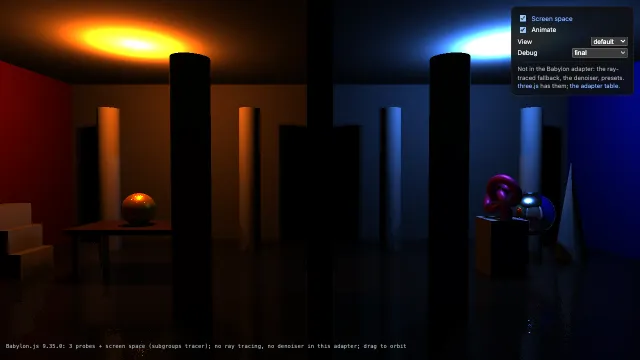
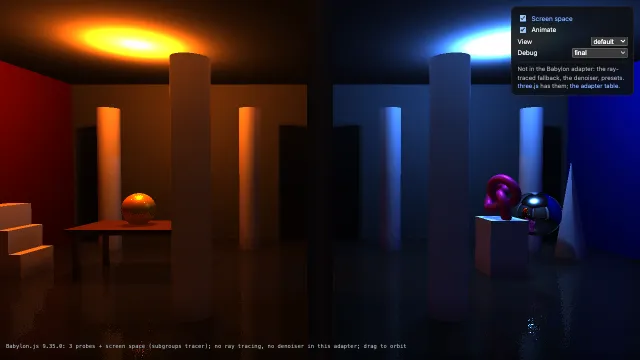
W99: HANDOFF row, log and backlog; engines/babylon thumbnail with bounce light
Checks: --only babylon 9/9 (first run: page not ready on load, passed on rerun), catalog gallery +
engines/babylon + babylon PASS (engines/babylon luminance 33.0, compare switch 0.80 / back 0.016),
thumbnail refreshed. Backlog: the remaining ~50/255 whole-image gap is Babylon's direct light /
shadows / tone mapping (three without env light 49.6 vs Babylon without bounce 24.2 luminance); rest
0.013-0.014/255 is the pre-existing SSR variation at a fixed frameIndex on a brighter scene.

diff --git a/docs/HANDOFF.md b/docs/HANDOFF.md
@@ -114,7 +114,7 @@ The working state of the project: who is on what, which interfaces the workstrea
 | W96 | Examples E4: `engines/three`, `engines/r3f`, `engines/babylon` (rebuild), `engines/core`, `engines/pixi` brief, all on `rooms` | code | `examples/engines/`, their catalog entries, `--only engines` | 5418 | done (2026-11-27): four pages on the two rooms + `--only engines` (side by side, stated bounds); Babylon adapter: probe `originOffset` / `projectionOffset`, `settings.frameIndex` honoured | Not done: engines/pixi on the two rooms (needs the beta; backlog). Babylon's materials take no bounce light from the probes (backlog) |
 | W97 | Bug: ray-traced hits on moving `noProbe` meshes (rt/animated's knot and ball) shade light grey (~0.85) instead of their material colour under `Reflections.create`; the ssr lab page sometimes shows them coloured | bug | `packages/three/src/trace`, `packages/core/src/trace` as needed; a regression check | 5419 | running (2026-11-27) | - |
 | W98 | Examples follow-up: perf/presets and perf/upscaler on `Reflections.create` (`timestamps`, `gbufferOptions`); a visible motion compare for motion/animated | code | `examples/features/{perf,motion}/`, their catalog entries; `packages/three/src/sssr/presets.ts` (`applyReflectionsPreset` takes a `Reflections`) | 5420 | done (2026-11-27), not merged | - |
-| W99 | Babylon adapter: probe irradiance (bounce light) for Babylon's PBR materials, as three's materials take it through `scene.environmentNode`; engines/babylon was 60.5/255 darker than engines/three | code + measure | `packages/babylon/src`, `examples/engines/babylon/`, the `engines` check bounds | 5421 | running (2026-11-27) | - |
+| W99 | Babylon adapter: probe irradiance (bounce light) for Babylon's PBR materials, as three's materials take it through `scene.environmentNode`; engines/babylon was 60.5/255 darker than engines/three | code + measure | `packages/babylon/src`, `examples/engines/babylon/`, the `engines` check bounds | 5421 | done (2026-11-27, branch `worktree-agent-a46b5670bffe14b7d`, not merged): `probeIrradiance(material, probes)` (PBR plugin, core lookup per pixel, D5520); engines/babylon 60.5 -> 50.2/255 (bound 64 -> 54) | Rest 0.011 -> 0.013-0.014/255 (same SSR pixels, brighter content; backlog). Remaining gap is Babylon's direct light / shadows / tone mapping, not the probes (backlog) |
 
 ## Platform
 
@@ -291,7 +291,9 @@ For the fine-tune pass once the phases are built and running. Nothing here block
 - ~~W95: `applyReflectionsPreset` warns "rebuild your composites" once even when the app does rebuild right after (perf/presets shows it in the console). Return-value-driven apps could opt out (an option, or warn only if no `composite()` follows before the next `update()`).~~ Done for `Reflections` (W98): `applyReflectionsPreset(reflections, name)` rebuilds it, no warning; `{ ssr, hybrid }` callers still get the one warning.
 - W95: perf/upscaler's restore needed the upscaler rebuilt in `__p.stop()` (its accumulation and jitter phase are history-dependent: back 0.095 / 0.175 without, 0.025 with). Check-only; the page itself is fine.
 - W95: denoise/glossy's flicker meter reads a 1:1 640 x 360 centre crop with `getImageData` every frame (~1 ms CPU at 1280 x 720). Fine for a demo; a GPU reduction would make it free.
-- W96: the Babylon adapter gives its materials no bounce light: three's materials take the probes' irradiance through `scene.environmentNode`, Babylon's only feed the tracer, so engines/babylon is ~3.5x darker than engines/three (luminance 24 vs 84, mean 60/255 per channel). The strip-IBL plugin (or the composite) could add `albedo x probe irradiance`.
+- W96: ~~the Babylon adapter gives its materials no bounce light~~ done in W99 (`probeIrradiance`, D5520): engines/babylon 60.5 -> 50.2/255 vs three.
+- W99: engines/babylon is still ~50/255 darker than engines/three (luminance 34.6 vs 84.1). Not the probes: three with `environmentIntensity = 0` reads luminance 49.6 / 39.2 (default / table) and Babylon without bounce 24.2 / 14.2, so Babylon's direct light (30 cd point lights, cube shadow maps, PBR) or its ACES present is about half of three's. Darker direct light also darkens the captures, so the bounce and the reflections. Trace it (a white wall at a known distance from one light, both engines, before tone mapping).
+- W99: engines/babylon's rest stability is 0.013-0.014/255 (W96: 0.010-0.011) only because the scene is brighter: the same ~5.5k glossy-floor / gold-sphere SSR pixels change frame to frame at a fixed `frameIndex` (5459 -> 5916 px, mean step 1.67 -> 2.19). The variation itself predates W99 (tracer, not the plugin; the workgroup variant is worse, 0.075 on default). Find what still varies per frame with frameIndex pinned (ray-list order with subgroup quad reuse?).
 - W96: engines/core's small renderer lights the rooms a little brighter than three (luminance 96 vs 84, mean 12/255): three r187's energy terms on direct and indirect diffuse, its shadow filter. Polish only; the reflections themselves differ by ~1/255 (`--only engines`, on - off).
 - W96: engines/pixi is still the arcade, not the two rooms: pixi-3d 0.1.0-beta.2 has CubeGeometry, CylinderGeometry, ConeGeometry, TorusKnotGeometry and PointLight, so a rooms page is feasible with the beta (point-light shadows unverified).
 - W96: the pixi adapter's `ScreenSpaceReflections.dispatch` overwrites `settings.frameIndex` with the frame's, as Babylon's did (fixed there in W96); harmless while pixi has the denoiser.
@@ -443,6 +445,7 @@ The traced pass binds group 0 (itself: 3 storage buffers, 4 storage textures), 1
 **For @pmndrs/bvh to plug in:** a ~40-line wrapper whose `code(slot)` is `traceModuleWgsl(slot)` (+ its dependencies) followed by `traceFirstHit` calling `giTraceClosest(GiRay(origin, 0.0, dir, tMax))` and mapping `GiHit` (t, triangle, barycentrics, frontFace map one to one). What it lacks today: (1) a hit normal (GiHit has none; the walk has the triangle's corners and the instance transform, so a `giHitNormal(hit)` helper or a `normal` field would do; without it `hitNormal: false` and the pass shades with -dir); (2) an instance → material table (an extra binding, or a user word in the instance record); (3) the exported `GPU_LAYOUT_VERSION` constant (the split doc plans it; not in the source yet). Its 3 storage buffers fit (6 of 8 with the pass).
 
 ## Log
+- 2026-11-27: **W99: Babylon probe bounce light.** Cause confirmed: engines/babylon's PBR materials had no diffuse IBL (no `scene.environmentTexture`, so Babylon's REFLECTION path is off); three's get the probes' irradiance from `scene.environmentNode`, worth ~34 of the 60 luminance gap (three at `environmentIntensity = 0`: 49.6 vs 84.1). Fix: `probeIrradiance(material, probes)` (`packages/babylon/src/irradiance.ts`), a PBR material plugin running core's `probeLookupFunctionWgsl` along N at roughness 1 (three's EnvironmentNode sample) with Babylon owning the bindings (atlas as a cube-array view, table as a storage buffer); Babylon's own irradiance block weights it (specular energy, coat, albedo, environmentIntensity, AO), with or without an environment texture. `bake()` captures with the set disabled. Specular IBL was already from the probes (strip plugin + composite; the page has no environment texture). `--only engines` vs three: default 60.46 -> 50.24, table 54.28 -> 45.10/255 (bound 64 -> 54), what screen space adds 1.48 / 1.64 (bound 2); rest 0.013-0.014/255 (see backlog). Checks: `--only engines` all PASS, `--only babylon` 9/9 (first run: page not ready, passed on rerun), catalog gallery + engines/babylon + babylon PASS, thumbnail refreshed; typecheck, test 127, build, docs:check.
 - 2026-11-27: **W98: perf pages on `Reflections.create`, a motion compare that shows.** perf/presets (148 -> 138 lines: `Reflections.create({ timestamps: true })`, `applyReflectionsPreset(reflections, name)`) and perf/upscaler (159 -> 157: `gbufferOptions: { width: 1, height: 1 }` then the render size, `renderer.setRenderTarget(aa.target); reflections.render(camera, jitter)`, `reflections.pipeline.outputColorTransform` off while the upscaler runs) no longer build the pieces; no API was missing for them. Small addition: `applyReflectionsPreset` rebuilds a target with `rebuild()` (a `Reflections`) when the resolution changes, without the warning (unit test; GPU: half-res sample and upsample timed after the switch, compare 0.386 / back 0.020). motion/animated: per-object motion vectors off (camera-only velocity) changes the moving shot by 0.04 / 255 mean (0.12 % px > 8, all on the mirror ball), zero motion everywhere 0.02-0.07: not visible, likely because FFX reprojects reflections by the camera matrices and hit distance (not read in its source) and the ball is the only glossy moving surface. The compare is now a history reset on every camera move (what a path-tracer app does): 0.28 / 255 mean, max 87, a sparkling floor live; back 0.010; `check.compare: false` dropped. `stop()` renders 0.6 s of frames so the tracer's async variants are in (the first restore read 0.147 without). Rest flicker 0.000-0.002 %. Gates: typecheck, test 126, build, docs:check; catalog gallery + the three pages pass, quickstart 22/22; motion thumbnail refreshed (panel label).
 - 2026-11-27: **W96 (E4): the engine pages on Ben's two rooms.** `engines/three` (`Reflections.create` with the rooms' 3 probes, denoiser, ray tracing on a switch), `engines/r3f` (the rooms and probes as JSX, `useReflections`), `engines/babylon` (rebuilt: rooms in Babylon, x negated, probes + screen space as frame-graph tasks; the mirror-wall page stays as lab `babylon` with its checks), `engines/core` (raw WebGPU: a ~700-line page whose renderer fills the frame contract; core `ProbeSet`, tracer, denoise seam), `engines/pixi` brief (not rebuilt: closed beta). Compare = screen space off on every page. `--only engines` puts three, r3f, Babylon and core side by side at views default / table: r3f 0.02/255; core 11.8-12.6/255 whole image (bound 16), 1.0-1.1 on what screen space adds (bound 2); Babylon 54-60/255 whole image (bound 64: no bounce light), 1.7 on what screen space adds (bound 2). Babylon adapter: `BabylonProbe.originOffset` / `projectionOffset` (a floor probe's box could not reach under the floor without moving its capture point), `settings.frameIndex` honoured (rest 0.198 -> 0.010/255 with it pinned; no denoiser there). Checks: catalog for the 4 pages + lab babylon + gallery PASS, `--only babylon` 9/9, test 125, docs:check.
 - 2026-11-27: **W94 (E2b): rt/fallback, rt/animated, hybrid/explained.** `rt/fallback` (offscreen; the kit's three probes; `rayTracing: true` + FFX; compare `ssr.rayTracing` off; source map; `traceError` in the status line: compare 3.74 / 255, back 0.026), `rt/animated` (moving; `trace.refit()` each frame after `scene.updateMatrixWorld()`; compare = the BVH back at its build pose; refit covers rigid transforms and instances, not skinning / morphs: compare 1.14, back 0.037), `hybrid/explained` (the denoiser's reflections-hybrid on one `Reflections`: four modes as settings, seven situations with verdicts, source map via `HybridReflections.sourceIndex`, A/B under the image; split view, reference, shadows, FSR and the cost table dropped, D5510: compare 7.34, back 0.038). A first attempt widened the catalog check's restore bound by the shot-to-shot noise; backed out on the lead's word, pages pin the noise instead. Found: grey traced hits on the moving scene's knot and ball (backlog). Gates: typecheck, test 125, build; catalog gallery + the three pages + box-projection pass.
